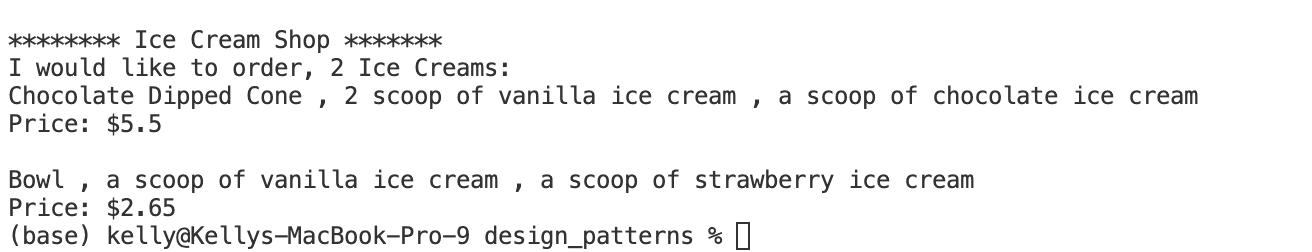
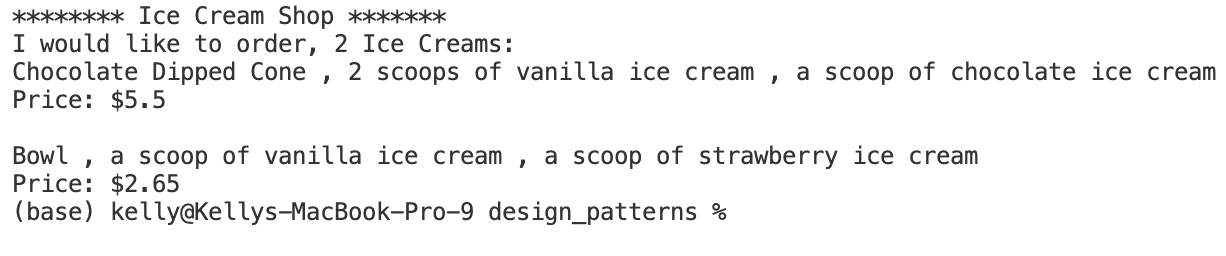
fixing spelling error

diff --git a/decorator/ScoopDecorator.java b/decorator/ScoopDecorator.java
@@ -45,7 +45,7 @@ public abstract class ScoopDecorator extends IceCream {
      */
     public String toString() {
         if (numScoops > 1) {
-            return iceCream.toString() + " , "+ numScoops+" scoop of " + this.flavor + " ice cream";
+            return iceCream.toString() + " , "+ numScoops+" scoops of " + this.flavor + " ice cream";
         } else {
             return iceCream.toString() + " , a scoop of " + this.flavor + " ice cream";
         }
